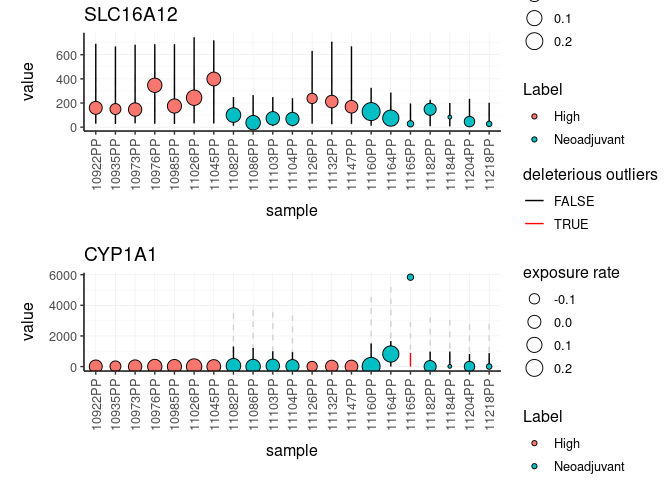
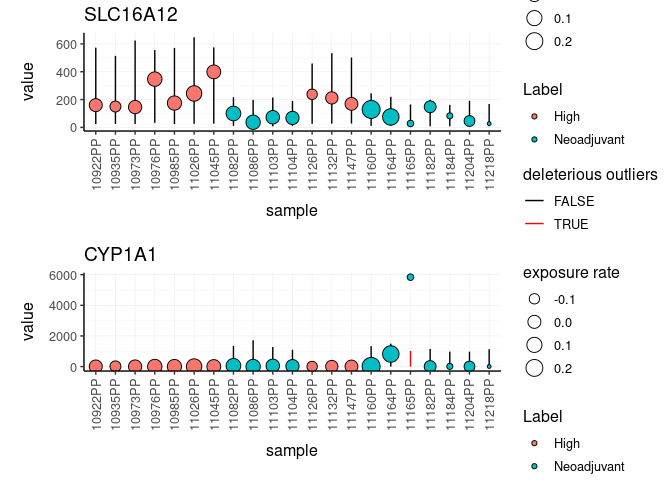
various updates

diff --git a/README.md b/README.md
@@ -47,8 +47,7 @@ anundance analysis, due to outliers.
 
 ``` r
 # Import libraries
-library(dplyr)
-library(magrittr)
+
 
 counts.ppc = 
     ppcseq::counts %>%
@@ -71,34 +70,46 @@ frame
 counts.ppc 
 ```
 
-    ## # A tibble: 15 x 5
-    ##    symbol   `sample wise data` plot   `ppc samples fail… `tot deleterious outli…
-    ##    <chr>    <list>             <list>              <int>                   <int>
-    ##  1 SLC16A12 <tibble [21 × 14]> <gg>                    0                       0
-    ##  2 CYP1A1   <tibble [21 × 14]> <gg>                    1                       1
-    ##  3 ART3     <tibble [21 × 14]> <gg>                    0                       0
-    ##  4 DIO2     <tibble [21 × 14]> <gg>                    0                       0
-    ##  5 OR51E2   <tibble [21 × 14]> <gg>                    0                       0
-    ##  6 MUC16    <tibble [21 × 14]> <gg>                    0                       0
-    ##  7 CCNA1    <tibble [21 × 14]> <gg>                    0                       0
-    ##  8 LYZ      <tibble [21 × 14]> <gg>                    1                       1
-    ##  9 PPM1H    <tibble [21 × 14]> <gg>                    0                       0
-    ## 10 SUSD5    <tibble [21 × 14]> <gg>                    0                       0
-    ## 11 TPRG1    <tibble [21 × 14]> <gg>                    0                       0
-    ## 12 EPB42    <tibble [21 × 14]> <gg>                    0                       0
-    ## 13 LRRC38   <tibble [21 × 14]> <gg>                    0                       0
-    ## 14 SUSD4    <tibble [21 × 14]> <gg>                    0                       0
-    ## 15 MMP8     <tibble [21 × 14]> <gg>                    0                       0
+    ## # A tibble: 15 x 4
+    ##    symbol   `sample wise data` `ppc samples failed` `tot deleterious outliers`
+    ##    <chr>    <list>                            <int>                      <int>
+    ##  1 SLC16A12 <tibble [21 × 14]>                    0                          0
+    ##  2 CYP1A1   <tibble [21 × 14]>                    1                          1
+    ##  3 ART3     <tibble [21 × 14]>                    0                          0
+    ##  4 DIO2     <tibble [21 × 14]>                    0                          0
+    ##  5 OR51E2   <tibble [21 × 14]>                    0                          0
+    ##  6 MUC16    <tibble [21 × 14]>                    0                          0
+    ##  7 CCNA1    <tibble [21 × 14]>                    0                          0
+    ##  8 LYZ      <tibble [21 × 14]>                    1                          1
+    ##  9 PPM1H    <tibble [21 × 14]>                    0                          0
+    ## 10 SUSD5    <tibble [21 × 14]>                    0                          0
+    ## 11 TPRG1    <tibble [21 × 14]>                    0                          0
+    ## 12 EPB42    <tibble [21 × 14]>                    0                          0
+    ## 13 LRRC38   <tibble [21 × 14]>                    0                          0
+    ## 14 SUSD4    <tibble [21 × 14]>                    0                          0
+    ## 15 MMP8     <tibble [21 × 14]>                    0                          0
 
 The new data frame contains plots for each gene
 
 We can visualise the top five differentially transcribed genes
 
 ``` r
-counts.ppc %>% 
-    slice(1:2) %>% 
-    pull(plot) %>% 
-    cowplot::plot_grid(plotlist = ., align = "v", ncol = 1, axis="b", rel_widths = 1 )
+counts.ppc_plots = 
+    counts.ppc %>% 
+    plot_credible_intervals() 
 ```
 
-![](README_files/figure-gfm/unnamed-chunk-7-1.png)<!-- -->
+``` r
+counts.ppc_plots %>%
+    pull(plot) %>% 
+    .[1:2]
+```
+
+    ## [[1]]
+
+![](man/figures/unnamed-chunk-9-1.png)<!-- -->
+
+    ## 
+    ## [[2]]
+
+![](man/figures/unnamed-chunk-9-2.png)<!-- -->
